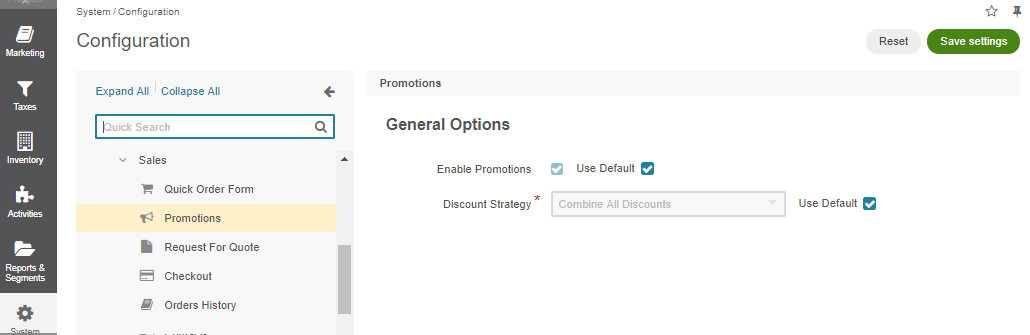
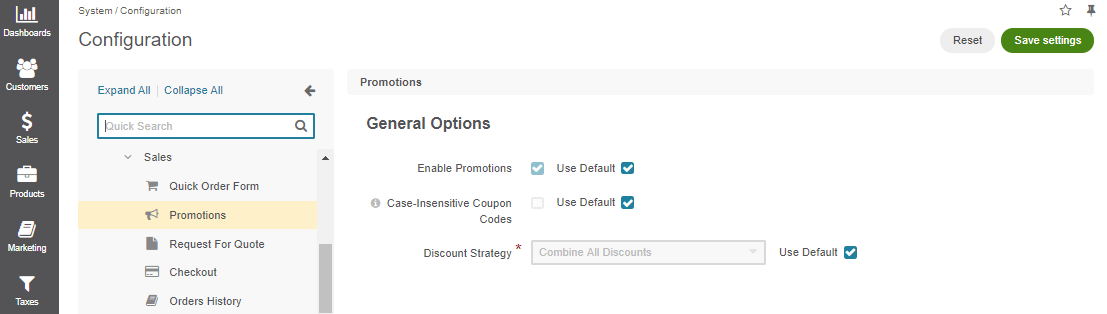
DOC-1596: Add Patch Release Notes to Documentation (#28156)

diff --git a/user/back-office/system/configuration/commerce/sales/promotions-settings.rst b/user/back-office/system/configuration/commerce/sales/promotions-settings.rst
@@ -2,12 +2,12 @@
 
 .. _sys-config--commerce--sales--promotions:
 
-Configure Global Settings Promotions
+Configure Global Promotions Settings
 ====================================
 
 .. begin
 
-You can enable or disable :ref:`promotions <user-guide--marketing--promotions>` and :ref:`coupons <user-guide--marketing--promotions--coupons>`, as well as control their strategy across your application in the system configuration.
+You can enable or disable :ref:`promotions <user-guide--marketing--promotions>` and :ref:`coupons <user-guide--marketing--promotions--coupons>`, as well as control their strategy across your application in the system configuration. You can also control whether to enable or disable entering coupon codes that are different only by letter case (e.g., *SpringSale*, *SPRINGSALE*, *springsale*) during the checkout.
 
 
 To reach promotion configuration:
@@ -20,16 +20,23 @@ To reach promotion configuration:
 
    .. note:: By default, promotions are enabled and the **Combine All Discounts** strategy is set.
 
-3. To customize the default settings:
+3. To customize the default settings, clear the **Use Default** check box next to the option.
 
-  a) Clear the **Use Default** check box next to the **Enable Promotion** option. This will enable you to clear the option check box and disable promotions in your Oro application.
-  b) Clear the **Use Default** check box next to the **Discount Strategy** and select one of the following options -- *Combine All Discounts* or *Best Value Discounts Only*.
+4. Enable or disable the following options as required:
 
-     * When *Combine All Discounts* is selected, all discount options applicable to products are used in combination.
+    **Enable Promotions** --- the option determines whether to activate or deactivate the promotions feature and promotions-related functionality in your Oro application.
 
-     * When *Best Value Discounts Only* is selected, only the promotion that gives the best value is applied to products.
+    .. hint:: The **Case-Insensitive Coupon Codes** feature is available since OroCommerce v4.1.3. To check which application version you are running, see the :ref:`system Information <system-information>`.
 
-4. Click **Save**.
+    **Case-Insensitive Coupon Codes** --- option determines whether to consider or ignore the letter case of the applied coupon codes. By default, the option is disabled, meaning that the system carefully checks the entered coupon code against the letter case, so *SpringSale*, *SPRINGSALE*, and *springsale*, are considered to be the three different codes. When the option is enabled, the mentioned codes will be considered equal.
+
+    **Discount Strategy** --- the option determines which strategy to use when calculating the promotion discount for a product:
+
+         * When *Combine All Discounts* is selected, all discount options applicable to products are used in combination.
+
+         * When *Best Value Discounts Only* is selected, only the promotion that gives the best value is applied to products.
+
+5. Click **Save**.
 
 **Related Topics**
 

diff --git a/user/back-office/system/frontend-menus/edit-frontend-menu.rst b/user/back-office/system/frontend-menus/edit-frontend-menu.rst
@@ -133,25 +133,31 @@ Add a Menu Item
 
   * The *config_value('some_identifier')* function limits visibility of the corresponding menu item upon specifying certain value instead of *'some_identifier'*.
 
-  As an example, let us make the **About** section in the storefront visible to customers with configured taxes. For this, we need to:
+As an example, let us make the **About** section in the storefront visible to customers with configured taxes. For this, we need to:
 
   a) Customize the *config_value('some_identifier')* function with the required value instead of *some_identifier*. In our case, it is the *oro_tax.tax_enable* value.
 
   b) Click **Save** on the top right of the About menu page to save the changes.
 
-  b) Enable **Tax Calculation** in the system configuration. More information on tax configuration can be found in the relevant :ref:`Configure Tax Calculation <user-guide--taxes--tax-configuration>` topic.
+  c) Enable **Tax Calculation** in the system configuration. More information on tax configuration can be found in the relevant :ref:`Configure Tax Calculation <user-guide--taxes--tax-configuration>` topic.
 
-  c) Click **Save** on the top right of the Tax Calculation configuration page.
+  d) Click **Save** on the top right of the Tax Calculation configuration page.
 
-  The steps are illustrated below:
+The steps are illustrated below:
 
-  .. image:: /user/img/system/frontend_menu/frontend_menu_11.png
-     :scale: 50%
-     :alt: The steps you need to take to enable the About section to customers with configured taxes in the storefront
+.. image:: /user/img/system/frontend_menu/frontend_menu_11.png
+   :scale: 50%
+   :alt: The steps you need to take to enable the About section to customers with configured taxes in the storefront
 
-  .. image:: /user/img/system/frontend_menu/frontend_menu_12.png
-     :scale: 50%
-     :alt: The steps you need to take to disable the About section to customers with configured taxes in the storefront
+.. image:: /user/img/system/frontend_menu/frontend_menu_12.png
+   :scale: 50%
+   :alt: The steps you need to take to disable the About section to customers with configured taxes in the storefront
+
+.. hint:: The **Target Window** feature is available since OroCommerce v4.1.3. To check which application version you are running, see the :ref:`system Information <system-information>`.
+
+* **Target Window** --- determines the way to open the linked document or URI. Select *Same Window* option to open it in the current browser window. Select *New Window* to open it in a new browser tab.
+
+* **Image** --- an image used to illustrate a new frontend menu. Click **Choose File** to select the image from your directory and upload it.
 
 4. Click **Save** to save your changes. If you wish to start creating another menu item right away, click **Save and New** on the top right.
 

diff --git a/user/back-office/marketing/content-widgets/index.rst b/user/back-office/marketing/content-widgets/index.rst
@@ -6,6 +6,8 @@
 Manage Content Widgets in the Back-Office
 =========================================
 
+.. hint:: This feature is available since OroCommerce v4.1.1. To check which application version you are running, see the :ref:`system Information <system-information>`.
+
 Content widgets are snippets of structured information that you can insert into any WYSIWYG field in your application. :ref:`WYSIWYG fields <getting-started-wysiwyg-editor-field>` are available throughout OroCommerce; for example, in category descriptions, on edit pages of products, content blocks, and landing pages.
 
 There are three content widget types:
@@ -67,15 +69,21 @@ To create a new content widget:
     .. image:: /user/img/marketing/content_widgets/copyright.png
        :alt: Copyright content widget form
 
+    |
+
    * **Product Mini Block** - Enables you to add a block with product information with or without prices, and/or the **Add to Shopping List** button.
 
      .. image:: /user/img/marketing/content_widgets/mini-block.png
         :alt: A product mini block form
 
+    |
+
    * **Product Segment** - Enables you to add a product segment content widget, and configure how many max and min items to show, whether to use slider on mobile, and show the **Add to Shopping List** button in the storefront. Only segments with type *Product* are listed in the **Segment** field dropdown. You can modify an existing :ref:`segment <user-guide--business-intelligence--filters-segments>` or create a new one under **Reports&Segments > Manage Segments**.
 
      .. image:: /user/img/marketing/content_widgets/product-segment.png
         :alt: A product mini block form
+
+    |
 
 4. Once you have provided all widget-specific details, click **Save and Close**.
 
@@ -95,6 +103,8 @@ To create a new content widget:
 
 Add a Content Widget to WYSIWYG Fields
 --------------------------------------
+
+.. hint:: The advanced WYSIWYG editor is available since OroCommerce v4.1.0. To check which application version you are running, see the :ref:`system Information <system-information>`.
 
 You can add content widgets to WYSIWYG fields in your OroCommerce application, like content blocks, landing pages, etc.
 

diff --git a/user/back-office/system/user-management/organizations/org-configuration/commerce/sales/organization-promotions.rst b/user/back-office/system/user-management/organizations/org-configuration/commerce/sales/organization-promotions.rst
@@ -1,0 +1,33 @@
+:oro_documentation_types: OroCommerce
+
+.. _sys--conf--commerce--sales--promotions-organization:
+
+Configure Promotions Settings per Organization
+==============================================
+
+.. hint:: The **Case-Insensitive Coupon Codes** feature is available since OroCommerce v4.1.3. To check which application version you are running, see the :ref:`system Information <system-information>`.
+
+The settings controls whether to enable or disable entering coupon codes that are different only by letter case (e.g., *SpringSale*, *SPRINGSALE*, *springsale*) during the checkout. Depending on the configuration you set, the coupon codes can be considered either equal or different.
+
+To configure the setting per organization:
+
+1. Navigate to **System > User Management > Organizations** in the main menu.
+2. For the necessary organization, hover over the |IcMore| **More Options** menu to the right of the necessary organization and click |IcConfig| to start editing the configuration.
+3. Select **Commerce > Sales > Promotions** in the menu to the left.
+
+.. note::
+   For faster navigation between the configuration menu sections, use :ref:`Quick Search <user-guide--system-configuration--quick-search>`.
+
+   .. image:: /user/img/system/user_management/org_configuration/sales/promotions-org.png
+      :alt: Configure promotions per organization
+
+4. Clear the **Use System** check box to customize the setting.
+
+5. **Case-Insensitive Coupon Codes** --- option determines whether to consider or ignore the letter case of the applied coupon codes. By default, the option is disabled, meaning that the system carefully checks the entered coupon code against the letter case, so *SpringSale*, *SPRINGSALE*, and *springsale*, are considered to be the three different codes. When the option is enabled, the mentioned codes will be considered equal.
+
+6. Click **Save**.
+
+.. include:: /include/include-images.rst
+   :start-after: begin
+
+

diff --git a/user/back-office/getting-started/information-management/wysiwyg.rst b/user/back-office/getting-started/information-management/wysiwyg.rst
@@ -5,6 +5,8 @@
 WYSIWYG Editor
 ==============
 
+.. hint:: This feature is available since OroCommerce v4.1.1. To check which application version you are running, see the :ref:`system Information <system-information>`.
+
 The :term:`WYSIWYG <WYSIWYG (What You See Is What You Get)>` editor feature is implemented by Oro applications to help you experience the control over the content of your HTML-like web pages within your website. It is an HTML page builder that helps you create a complex and attractive content with cutting-edge default and third-party widgets, embedded videos and pictures without any coding knowledge. Preview functions enable you to optimize the page for mobile and desktop formats before you publish.
 
 The WYSIWYG editor integrates the |GrapesJS| framework out-of-the-box. The framework provides multiple advanced capabilities for creating dynamic templates and HTML structures.
@@ -69,6 +71,7 @@ WYSIWYG enables you to:
 
 * Adapt the content for various display formats (desktop, tablet, and mobile). You can set the individual formatting for each display type, including different background colors, blocks dimension, text alignment, and other. For this, select the display type and customize the settings appropriately. View the results dynamically by switching from one display to another.
 
+
     .. image:: /user/img/getting_started/wysiwyg/display_types.png
        :alt: Selecting the display format
 
@@ -94,7 +97,6 @@ WYSIWYG enables you to:
     .. image:: /user/img/marketing/landing_pages/ContactWidget.png
        :alt: Show how the Contact Us widget is displayed in the storefront
        :scale: 60%
-
 
 .. note:: To add any custom options or custom video formats to the default WYSIWYG settings, ask for the developer assistance and follow the :ref:`HTML Purifier Modes <wysiwyg-field-customization>` customization guide.
 

diff --git a/user/back-office/marketing/landing-pages/index.rst b/user/back-office/marketing/landing-pages/index.rst
@@ -41,7 +41,11 @@ To create a new landing page:
 
    To ensure that slug prototype translation is localization-friendly, manage slug prototype translations: click |IcTranslations| next to the **Slug Prototypes** box and follow the guidance :ref:`here <localization--localization>`.
 
-#. Enter the landing page content in the WYSIWYG text editor. Drag the selected element (a text, an image, a column, or a source code) from the Blocks menu and drop it to the required location. Rearrange the content or modify the style of the elements by navigating from tab to tab in the WYSIWYG editor's manager bar. For more details on WYSIWYG management, see the :ref:`WYSIWYG Editor <getting-started-wysiwyg-editor-field>` topic.
+#. Enter the landing page content in the WYSIWYG text editor.
+
+   .. hint:: The advanced WYSIWYG editor is available since OroCommerce v4.1.0. To check which application version you are running, see the :ref:`system Information <system-information>`.
+
+   Drag the selected element (a text, an image, a column, or a source code) from the Blocks menu and drop it to the required location. Rearrange the content or modify the style of the elements by navigating from tab to tab in the WYSIWYG editor's manager bar. For more details on WYSIWYG management, see the :ref:`WYSIWYG Editor <getting-started-wysiwyg-editor-field>` topic.
 
    .. note:: You can insert the *Contact Us widget* into the required page. For this, enter ``{{widget('contact_us_form')}}`` in the text editor and click **Save** in the top right corner. Once the landing page is added as a content variant to the content node of a web catalog, the form should then become visible in the storefront.
 

diff --git a/user/back-office/system/configuration/system/general-setup/global-email.rst b/user/back-office/system/configuration/system/general-setup/global-email.rst
@@ -53,6 +53,9 @@ To configure email settings globally:
 
    * **Attachments** --- Configure the following attachment options:
 
+     .. hint:: The **Maximum Attachment Size, Mb** feature is available since OroCRM :ref:`v4.1.3 <system-information>`.
+
+     * *Maximum Attachment Size, Mb* --- Set the maximum attachment size in Mb. Attachments that exceed the defined size will not be uploaded. You can remove size limitations by setting the size to 0.
      * *Enable Attachment Sync* --- Enable loading attachments on email sync. 
      * *Maximum Sync Attachment Size (Mb)* --- Set the maximum sync attachment size in Mb. Attachments that exceed the defined size will not be downloaded. You can remove size limitations by setting the size to 0.
      * *Remove Large Attachments* --- Click the button to add a job to the queue to remove all attachments exceeding the defined size from the system. 
@@ -161,7 +164,7 @@ To configure a system mailbox globally:
 10. Click **Add Rule** to add a new auto-response rule and complete the following details in the dialog:
 
    .. image:: /user/img/system/config_system/ar_rule.png
-      :alt: Sample autoresponse rule form
+      :alt: Sample auto-response rule form
 
    * *Status (Active/Inactive)* --- Only rules with active statuses are applied.
    * *Name* --- Select the name for the rule to be used within the system.

diff --git a/user/concept-guides/websites/index.rst b/user/concept-guides/websites/index.rst
@@ -121,6 +121,8 @@ In OroCommerce, you can identify the visitors of your website through various :r
 B2C Websites
 ------------
 
+.. hint:: This feature is available since OroCommerce v4.1.1. To check which application version you are running, see the :ref:`system Information <system-information>`.
+
 One of the substantial capabilities offered by OroCommerce is the ability to configure the website to match the :ref:`B2C <user-guide--system-websites-b2c>` business model. Even if the website was initially configured to follow the B2B market segment, you can easily transfer it to B2C at any time. Unlike B2B, the B2C model disables the ability to request a quote, view the quotes, and use a quick order form to place the orders. Guest shopping lists are activated, and all the users are no longer required to mention a company name when registering an account. All the settings are immediately adjusted to match the new strategy and can be changed in the system configuration later on.
 
    .. image:: /user/img/concept-guides/websites/configure_website_as_b2c.png

diff --git a/user/back-office/customers/customer-users/index.rst b/user/back-office/customers/customer-users/index.rst
@@ -108,6 +108,8 @@ You may want to delegate some of the customer user management capabilities to th
 Impersonate a Customer User
 ---------------------------
 
+.. hint:: This feature is available in the Enterprise edition since OroCommerce v4.1.0. To check which application version you are running, see the :ref:`system Information <system-information>`.
+
 For troubleshooting purposes, user impersonation allows back-office users with the **Impersonate User** :ref:`role capability <admin-capabilities>` to access and operate the OroCommerce storefront as if they were logged in as a specific customer user. Such back-office user is redirected to the website assigned to the customer user that they are impersonating (i.e. the website where the customer user registered).
 
 .. hint:: Before proceeding, make sure this feature is enabled in the system configuration :ref:`globally <system-configuration-user-impersonation>` or :ref:`per organization <organization-user-impersonation>`.

diff --git a/user/back-office/system/system-information/index.rst b/user/back-office/system/system-information/index.rst
@@ -5,5 +5,10 @@
 View System Information in the Back-Office
 ==========================================
 
-The system information page that is located under **System > System Information** provides a user the list of Oro packages and third-party packages that are installed. Usually, the page is only used by system administrators and integrators.
+The system information page that is located under **System > System Information** provides a user the list of Oro packages and third-party packages that are installed.
 
+Here, you can check the current versions and licenses of the application you are running, as well as other installed packages. Usually, the page is only used by system administrators and integrators.
+
+
+.. image:: /user/img/system/system_info/system_information.png
+   :alt: The default product options details page

diff --git a/user/back-office/system/user-management/organizations/org-configuration/commerce/customers/organization-customer-users.rst b/user/back-office/system/user-management/organizations/org-configuration/commerce/customers/organization-customer-users.rst
@@ -29,6 +29,8 @@ To change the default customer user configuration settings for an organization:
 
 .. _organization-user-impersonation:
 
+.. hint:: This feature is available in the Enterprise edition since OroCommerce v4.1.0. To check which application version you are running, see the :ref:`system Information <system-information>`.
+
 5. In the **Login as Customer User** section, you can enable user impersonation for a specific organization. User impersonation allows back-office users with the **Impersonate User** :ref:`role capability <admin-capabilities>` to access and operate the OroCommerce storefront as if they were logged in as a specific customer user.
 
 6. To customize any of these options:

diff --git a/user/back-office/system/websites/manage.rst b/user/back-office/system/websites/manage.rst
@@ -50,6 +50,8 @@ Now the website is marked as default and will be used for the anonymous access.
 Configure a Website for B2C
 ---------------------------
 
+.. hint:: This feature is available since OroCommerce v4.1.1. To check which application version you are running, see the :ref:`system Information <system-information>`.
+
 OroCommerce enables you to customize the application for the B2C business type, modifying the default configuration to match the typical B2C setup. You can then change these settings manually in the system configuration, if necessary.
 
 A B2C website can be configured in two ways, either :ref:`during creation <system-websites-create>` or from the website's view page.
